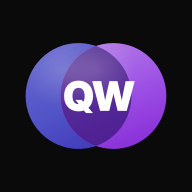
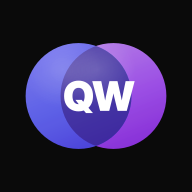
fix(brand): blue bubble on top, slightly more opaque
Right (violet) bubble is rendered first, left (blue) bubble is layered
on top so it dominates the overlap region visually. Blue bumped to
opacity 0.95 (from 0.82) to match the denser feel. Overlap deepening
lightened to 0.55 (from 0.65) since the blue's higher opacity already
darkens the intersection naturally.

https://claude.ai/code/session_01RsjYSCHDBrRbL22S5AWjBq

Changed region(s): [[0.125, 0.2188, 0.5, 0.7812]]

diff --git a/frontend/src/components/QwillioLoader.tsx b/frontend/src/components/QwillioLoader.tsx
@@ -51,21 +51,22 @@ export default function QwillioLoader({
           </clipPath>
         </defs>
 
-        {/* Left bubble — slides in from the left, no letter baked in */}
-        <g className="qw-loader__left">
-          <circle cx="198" cy="256" r="176" fill="url(#qwlA)" opacity="0.82" />
-          <circle cx="198" cy="256" r="176" fill="url(#qwlHi)" />
-        </g>
-
-        {/* Right bubble — slides in from the right, no letter baked in */}
+        {/* Right bubble renders first so the left (blue) bubble sits on
+            top of it in the overlap region. */}
         <g className="qw-loader__right">
           <circle cx="314" cy="256" r="176" fill="url(#qwlB)" opacity="0.92" />
           <circle cx="314" cy="256" r="176" fill="url(#qwlHi)" />
         </g>
 
-        {/* Intersection overlay — fades in once the bubbles have crossed */}
+        {/* Left bubble — slides in from the left, layered on top */}
+        <g className="qw-loader__left">
+          <circle cx="198" cy="256" r="176" fill="url(#qwlA)" opacity="0.95" />
+          <circle cx="198" cy="256" r="176" fill="url(#qwlHi)" />
+        </g>
+
+        {/* Intersection deepening — fades in once the bubbles have crossed */}
         <g className="qw-loader__overlap">
-          <circle cx="314" cy="256" r="176" fill="#2B1166" opacity="0.65" clipPath="url(#qwlClip)" />
+          <circle cx="314" cy="256" r="176" fill="#2B1166" opacity="0.55" clipPath="url(#qwlClip)" />
         </g>
 
         {/* Letters — fade in centred on each bubble after the crossing */}

diff --git a/frontend/src/components/QwillioLogo.tsx b/frontend/src/components/QwillioLogo.tsx
@@ -39,9 +39,9 @@ export default function QwillioLogo({ size = 32, className = '' }: { size?: numb
           <circle cx="198" cy="256" r="176" />
         </clipPath>
       </defs>
-      <circle cx="198" cy="256" r="176" fill="url(#qwLogoA)" opacity={0.82} />
       <circle cx="314" cy="256" r="176" fill="url(#qwLogoB)" opacity={0.92} />
-      <circle cx="314" cy="256" r="176" fill="#2B1166" opacity={0.65} clipPath="url(#qwIntersect)" />
+      <circle cx="198" cy="256" r="176" fill="url(#qwLogoA)" opacity={0.95} />
+      <circle cx="314" cy="256" r="176" fill="#2B1166" opacity={0.55} clipPath="url(#qwIntersect)" />
       <circle cx="198" cy="256" r="176" fill="url(#qwLogoHi)" />
       <circle cx="314" cy="256" r="176" fill="url(#qwLogoHi)" />
       <g transform="translate(198 256) scale(0.680)">
